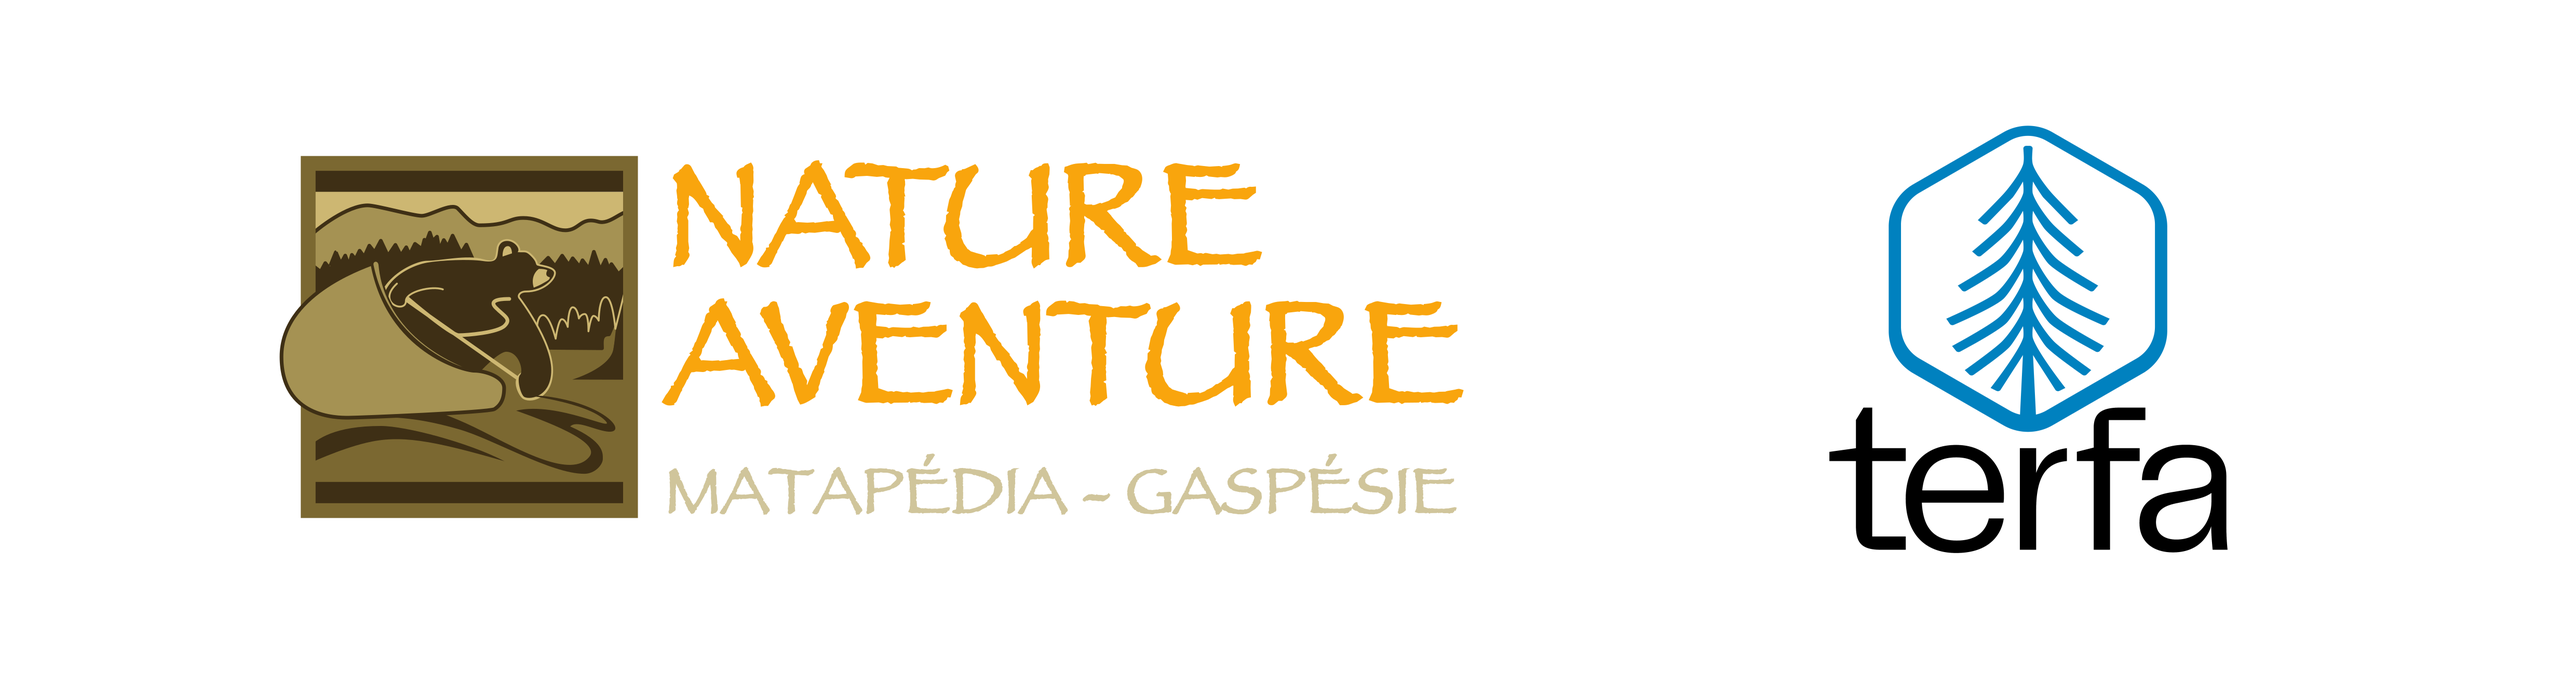
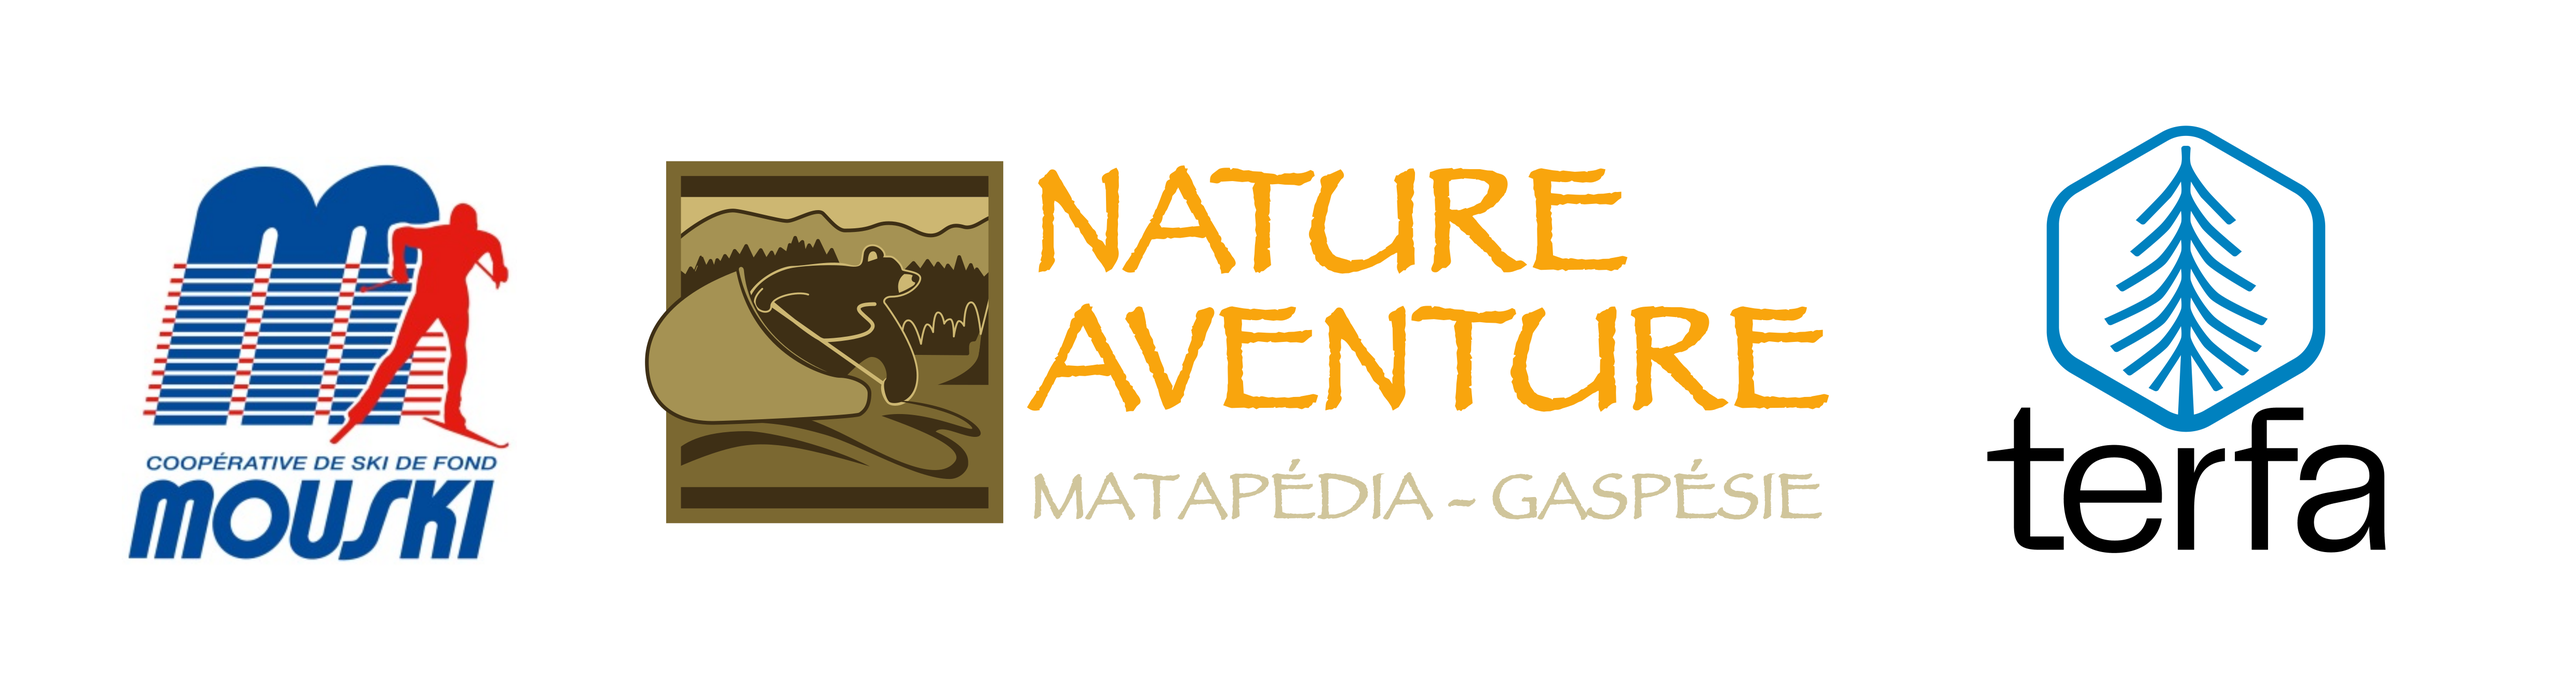
Ajout Mouski

Changed region(s): [[0.0312, 0.1848, 0.9373, 0.8314]]

diff --git a/exampleSite/content/french/partenaires.md b/exampleSite/content/french/partenaires.md
@@ -12,9 +12,12 @@ about:
   image : "images/partenaires.png"
   title : "Partenaires"
   content : "
-  Nature Aventure - https://www.natureaventure.ca/
+  Coopérative Mouski - http://mouski.qc.ca/
 
   
+  Nature Aventure - https://www.natureaventure.ca/
+
+
   Terfa - https://www.terfa.ca/
 
 
